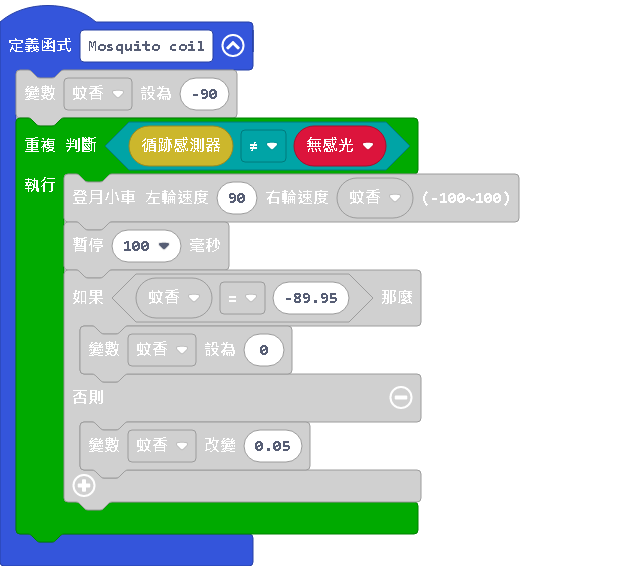
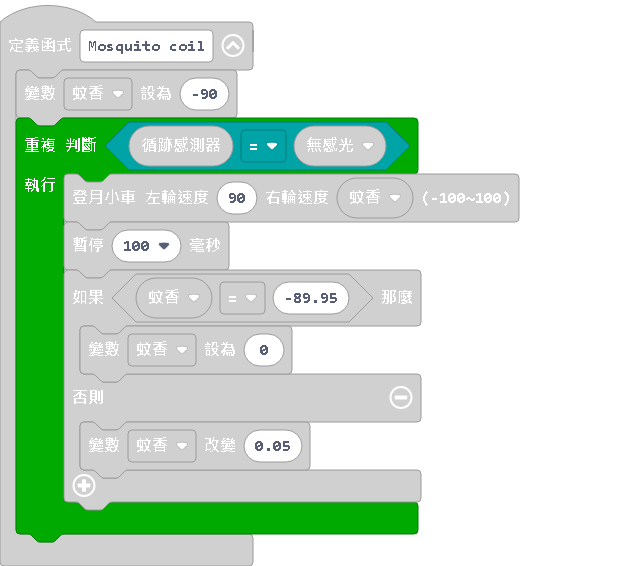
更新 pxt.json, main.blocks, main.ts, main.py

Changed region(s): [[0.0, 0.0, 0.427, 1.0], [0.183, 0.2102, 0.3965, 0.3004], [0.4575, 0.2102, 0.6404, 0.3004]]

diff --git a/main.ts b/main.ts
@@ -1,6 +1,7 @@
-function Mosquito_coil () {
+function Mosquito_coil() {
+    
     蚊香 = -90
-    while (mooncar.LineFollowerSensor() != 無感光) {
+    while (mooncar.LineFollowerSensor() == 無感光) {
         mooncar.MoonCarLR(90, 蚊香)
         basic.pause(100)
         if (蚊香 == -89.95) {
@@ -8,16 +9,18 @@ function Mosquito_coil () {
         } else {
             蚊香 += 0.05
         }
+        
     }
 }
-function 循線 () {
+
+function 循線() {
     basic.showLeds(`
         . # . # .
-        . . . . .
-        # # . # #
-        . . # . .
-        . . . . .
-        `)
+                . . . . .
+                # # . # #
+                . . # . .
+                . . . . .
+    `)
     if (mooncar.LineFollowerSensor() == 全感光) {
         mooncar.MoonCarGo(mooncar.Direction.direct1, 15)
         basic.pause(1)
@@ -28,8 +31,10 @@ function 循線 () {
         mooncar.MoonCarGo(mooncar.Direction.direct4, 6)
         basic.pause(1)
     }
+    
 }
-function 超音波觸發 () {
+
+function 超音波觸發() {
     if (supersound / 2 % 2 == 1) {
         mooncar.MoonCarGo(mooncar.Direction.direct4, 15)
         basic.pause(500)
@@ -47,99 +52,102 @@ function 超音波觸發 () {
         basic.pause(500)
         return
     }
+    
 }
-function 無黑線 () {
-	
+
+function 無黑線() {
+    
 }
+
 let 全感光 = 0
 let supersound = 0
 let 左感光 = 0
 let 右感光 = 0
 let 無感光 = 0
 let 蚊香 = 0
-// for index in range(20):
-// 
-// if mooncar.ir_read() == 無感光:
-// 
-// mooncar.moon_car_go(mooncar.Direction.DIRECT3, 6)
-// 
-// basic.pause(1)
-// 
-// else:
-// 
-// break
-// 
-// for index2 in range(40):
-// 
-// mooncar.moon_car_go(mooncar.Direction.DIRECT4, 6)
-// 
-// basic.pause(1)
-// 
-// for index3 in range(20):
-// 
-// if mooncar.ir_read() == 無感光:
-// 
-// mooncar.moon_car_go(mooncar.Direction.DIRECT3, 6)
-// 
-// basic.pause(1)
-// 
-// else:
-// 
-// break
-// 
-// for index4 in range(100):
-// 
-// if mooncar.ir_read() == 無感光:
-// 
-// mooncar.moon_car_go(mooncar.Direction.DIRECT1, 12)
-// 
-// basic.pause(1)
-// 
-// else:
-// 
-// break
-// 
-// for index5 in range(100):
-// 
-// if mooncar.ir_read() == 無感光:
-// 
-// mooncar.moon_car_go(mooncar.Direction.DIRECT2, 50)
-// 
-// basic.pause(1)
-// 
-// else:
-// 
-// break
-// 
-// for index6 in range(1000):
-// 
-// if mooncar.ir_read() == 無感光:
-// 
-// mooncar.moon_car_go(mooncar.Direction.DIRECT3, 50)
-// 
-// basic.pause(1)
-// 
-// else:
-// 
-// break
-// 
-// for index7 in range(1000):
-// 
-// mooncar.moon_car_go(mooncar.Direction.DIRECT3, 50)
-// 
-// basic.pause(1)
-// 
-// for index8 in range(1000):
-// 
-// if mooncar.ir_read() == 無感光:
-// 
-// mooncar.moon_car_go(mooncar.Direction.DIRECT3, 50)
-// 
-// basic.pause(1)
-// 
-// else:
-// 
-// break
+//  for index in range(20):
+//  
+//  if mooncar.ir_read() == 無感光:
+//  
+//  mooncar.moon_car_go(mooncar.Direction.DIRECT3, 6)
+//  
+//  basic.pause(1)
+//  
+//  else:
+//  
+//  break
+//  
+//  for index2 in range(40):
+//  
+//  mooncar.moon_car_go(mooncar.Direction.DIRECT4, 6)
+//  
+//  basic.pause(1)
+//  
+//  for index3 in range(20):
+//  
+//  if mooncar.ir_read() == 無感光:
+//  
+//  mooncar.moon_car_go(mooncar.Direction.DIRECT3, 6)
+//  
+//  basic.pause(1)
+//  
+//  else:
+//  
+//  break
+//  
+//  for index4 in range(100):
+//  
+//  if mooncar.ir_read() == 無感光:
+//  
+//  mooncar.moon_car_go(mooncar.Direction.DIRECT1, 12)
+//  
+//  basic.pause(1)
+//  
+//  else:
+//  
+//  break
+//  
+//  for index5 in range(100):
+//  
+//  if mooncar.ir_read() == 無感光:
+//  
+//  mooncar.moon_car_go(mooncar.Direction.DIRECT2, 50)
+//  
+//  basic.pause(1)
+//  
+//  else:
+//  
+//  break
+//  
+//  for index6 in range(1000):
+//  
+//  if mooncar.ir_read() == 無感光:
+//  
+//  mooncar.moon_car_go(mooncar.Direction.DIRECT3, 50)
+//  
+//  basic.pause(1)
+//  
+//  else:
+//  
+//  break
+//  
+//  for index7 in range(1000):
+//  
+//  mooncar.moon_car_go(mooncar.Direction.DIRECT3, 50)
+//  
+//  basic.pause(1)
+//  
+//  for index8 in range(1000):
+//  
+//  if mooncar.ir_read() == 無感光:
+//  
+//  mooncar.moon_car_go(mooncar.Direction.DIRECT3, 50)
+//  
+//  basic.pause(1)
+//  
+//  else:
+//  
+//  break
 蚊香 = 0
 mooncar.Filllight(mooncar.Switch.Open)
 無感光 = 3
@@ -147,18 +155,21 @@ mooncar.Filllight(mooncar.Switch.Open)
 左感光 = 1
 supersound = 1
 全感光 = 0
-basic.forever(function () {
+basic.forever(function on_forever() {
     while (supersound % 2 == 1 && mooncar.LineFollowerSensor() != 無感光) {
         循線()
     }
     if (supersound % 2 == 1) {
         Mosquito_coil()
     }
+    
 })
-basic.forever(function () {
+basic.forever(function on_forever2() {
+    
     if (mooncar.UltrasonicSensor() <= 15) {
         supersound += 1
         超音波觸發()
         supersound += 1
     }
+    
 })

diff --git a/main.py b/main.py
@@ -1,7 +1,7 @@
 def Mosquito_coil():
     global 蚊香
     蚊香 = -90
-    while mooncar.ultrasonic_sensor() != 5:
+    while mooncar.line_follower_sensor() == 無感光:
         mooncar.moon_car_lr(90, 蚊香)
         basic.pause(100)
         if 蚊香 == -89.95:
@@ -48,6 +48,7 @@ def 無黑線():
 supersound = 0
 左感光 = 0
 右感光 = 0
+無感光 = 0
 蚊香 = 0
 # for index in range(20):
 # 
